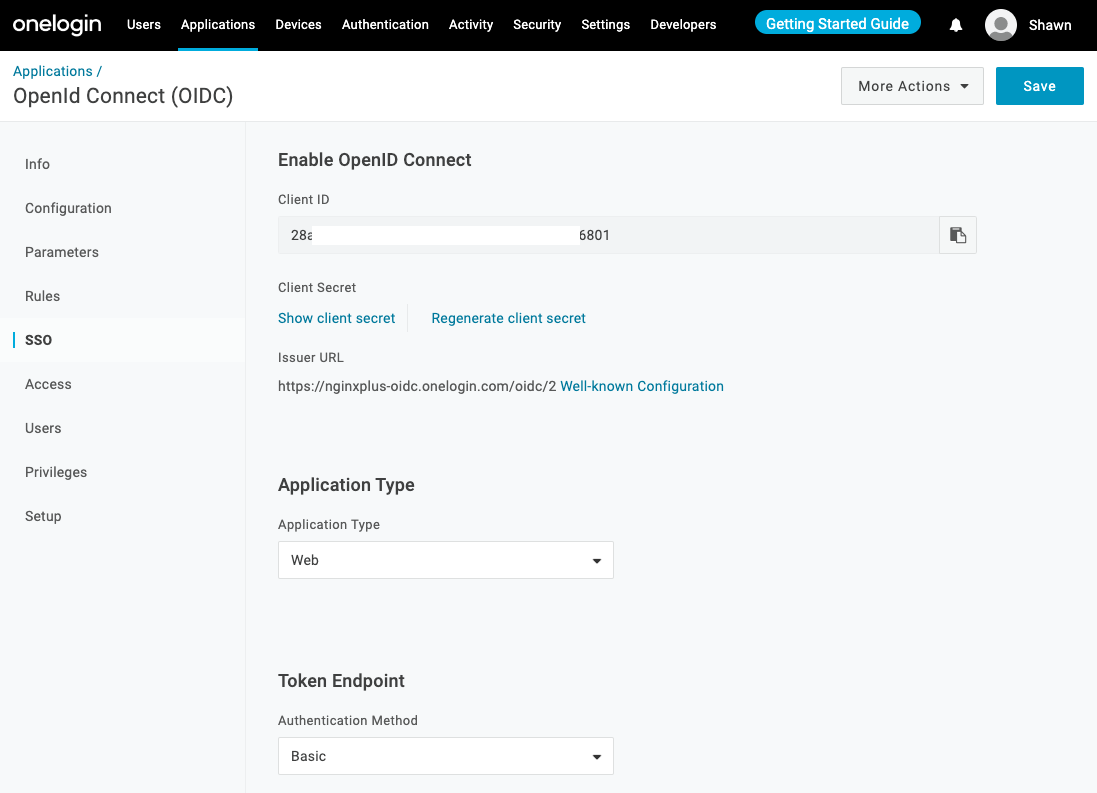
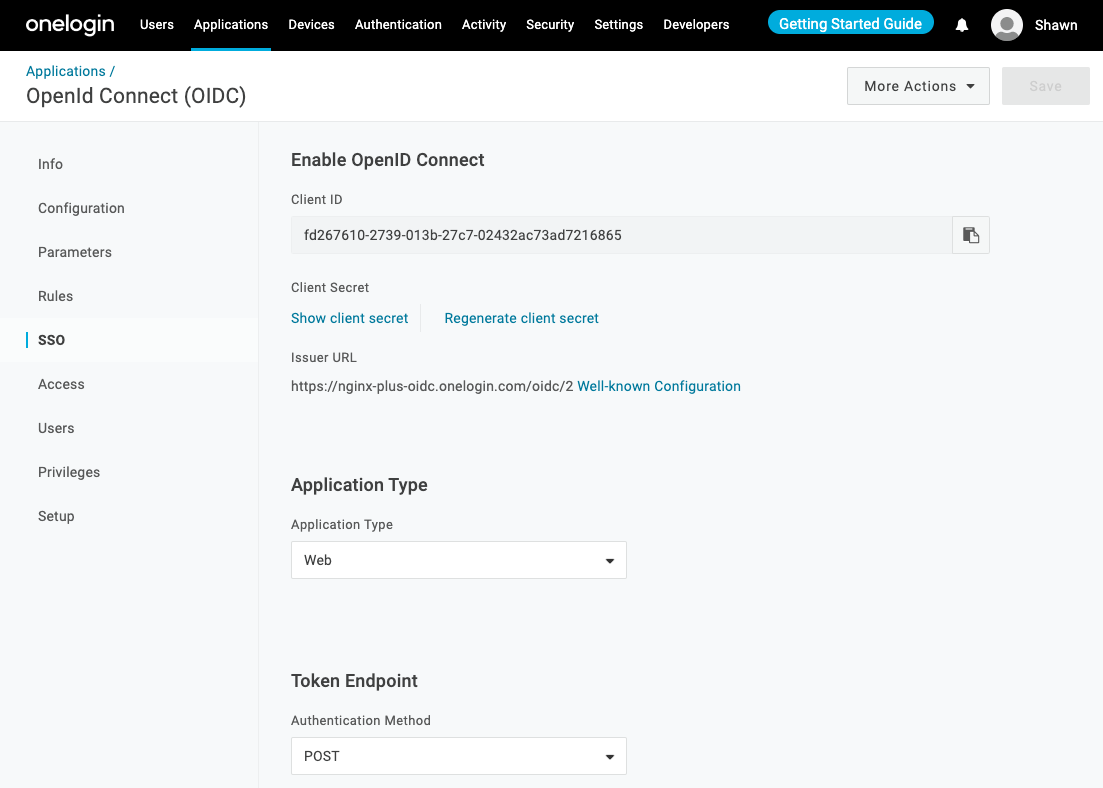
feat: None PKCE setup & update sample frontend

diff --git a/docker/build-context/content/index.js b/docker/build-context/content/index.js
@@ -125,7 +125,7 @@ var doAPIRequest = function(evt, uri, msgBefore, msgAfter, headers) {
   const url = window.location.origin + uri;
   fetch(url, {
       method : 'GET',
-      mode   : 'cors',
+      mode   : 'no-cors',
       headers: headers
   })
   .then((response) => {

diff --git a/docs/01-IdP-Setup.md b/docs/01-IdP-Setup.md
@@ -53,7 +53,7 @@ Create a new application for NGINX Plus in the OneLogin GUI:
    - Option 1. Take the following steps if you **don't enable PKCE**.
 
      - Copy and note **Client ID** and **Client secret**. You will add them to the NGINX Plus configuration in Step 3 of [Configuring NGINX Plus](https://github.com/nginx-openid-connect/nginx-oidc-onelogin/blob/main/docs/02-NGINX-Plus-Setup.md).
-     - Choose **Basic** in the combo box under **Token Endpoint** section.
+     - Choose **POST** in the combo box under **Token Endpoint** section.
 
      ![](./img/onelogin-none-pkce.png)
 
